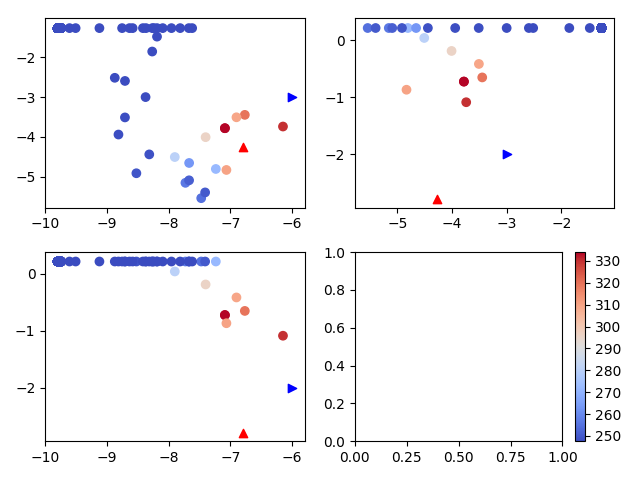
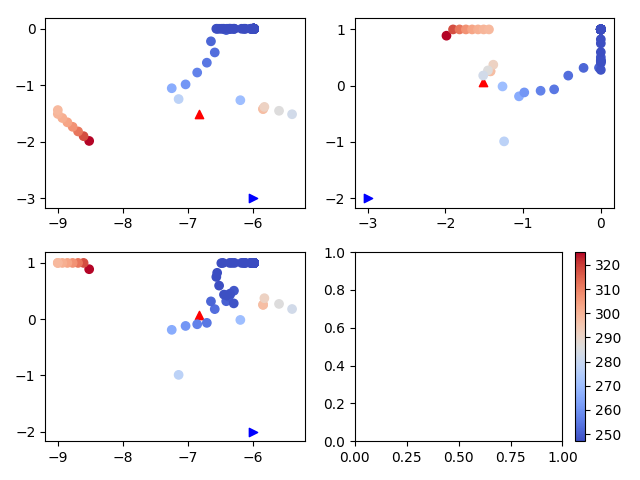
necro calibration

diff --git a/simplepso/examples/necro_pso.py b/simplepso/examples/necro_pso.py
@@ -71,7 +71,7 @@ original_values = np.array([p.value for p in model.parameters])
 log10_original_values = np.log10(original_values[rate_mask])
 
 # We will use a best guess starting position for the model, up or down 1 order of magnitude
-start_position = log10_original_values + np.random.uniform(-1.5, 1.5, size=np.shape(log10_original_values)) #[-1.5, 1.3,
+start_position = log10_original_values + np.random.uniform(-3., 3., size=np.shape(log10_original_values)) #[-1.5, 1.3,
                                           #-.75]  # np.random.uniform(-1.5, 1.5, size=np.shape(log10_original_values))
 
 # Defining some functions to help plot the output of the parameters
@@ -139,11 +139,11 @@ def run_example():
     # print('run_example')
     # Here we initial the class
     # We must proivde the cost function and a starting value
-    optimizer = PSO(cost_function=obj_function, start=start_position, verbose=True)
+    optimizer = PSO(cost_function=obj_function, start=log10_original_values, verbose=True)
     # We also must set bounds. This can be a single scalar or an array of len(start_position)
     optimizer.set_bounds(parameter_range=3)
-    optimizer.set_speed(speed_min=-.5, speed_max=.5)
-    optimizer.run(num_particles=25, num_iterations=10000)
+    optimizer.set_speed(speed_min=-.25, speed_max=.25)
+    optimizer.run(num_particles=50, num_iterations=100)
     print('whatever')
     if plot:
         display(start_position, optimizer.best)
